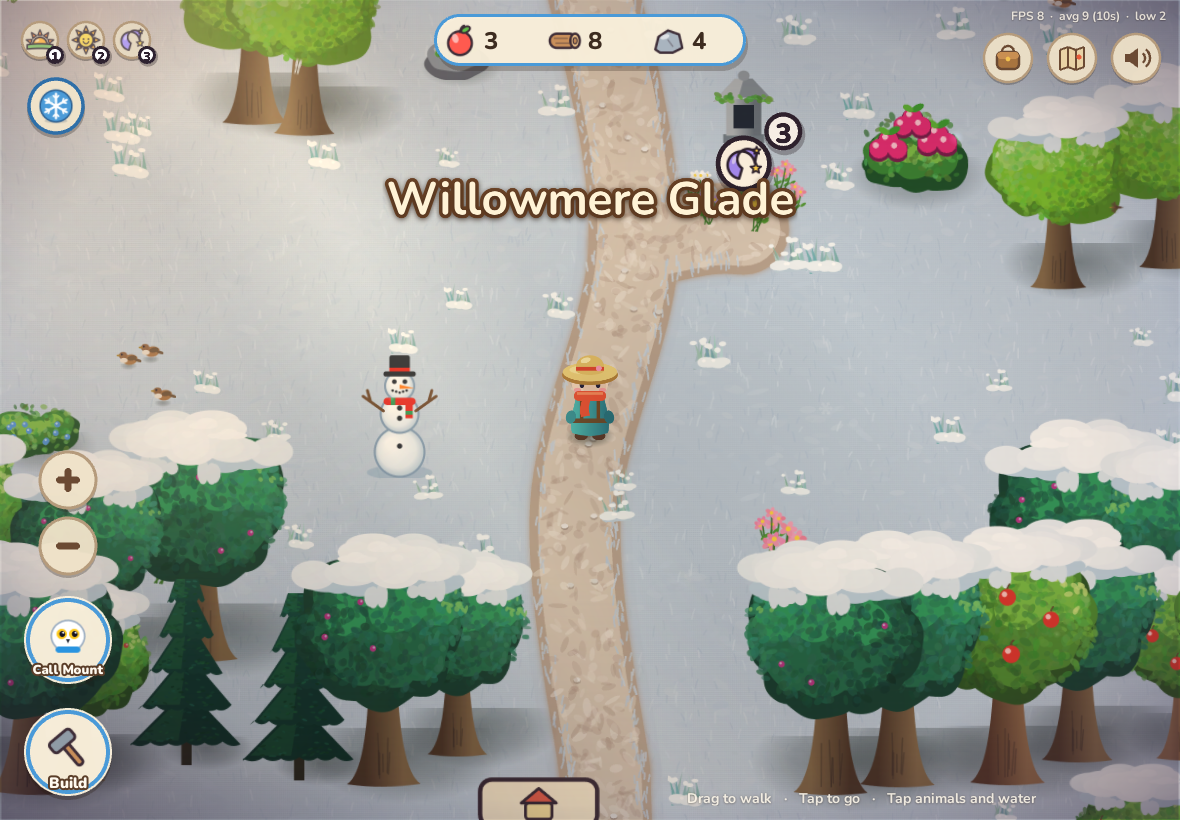
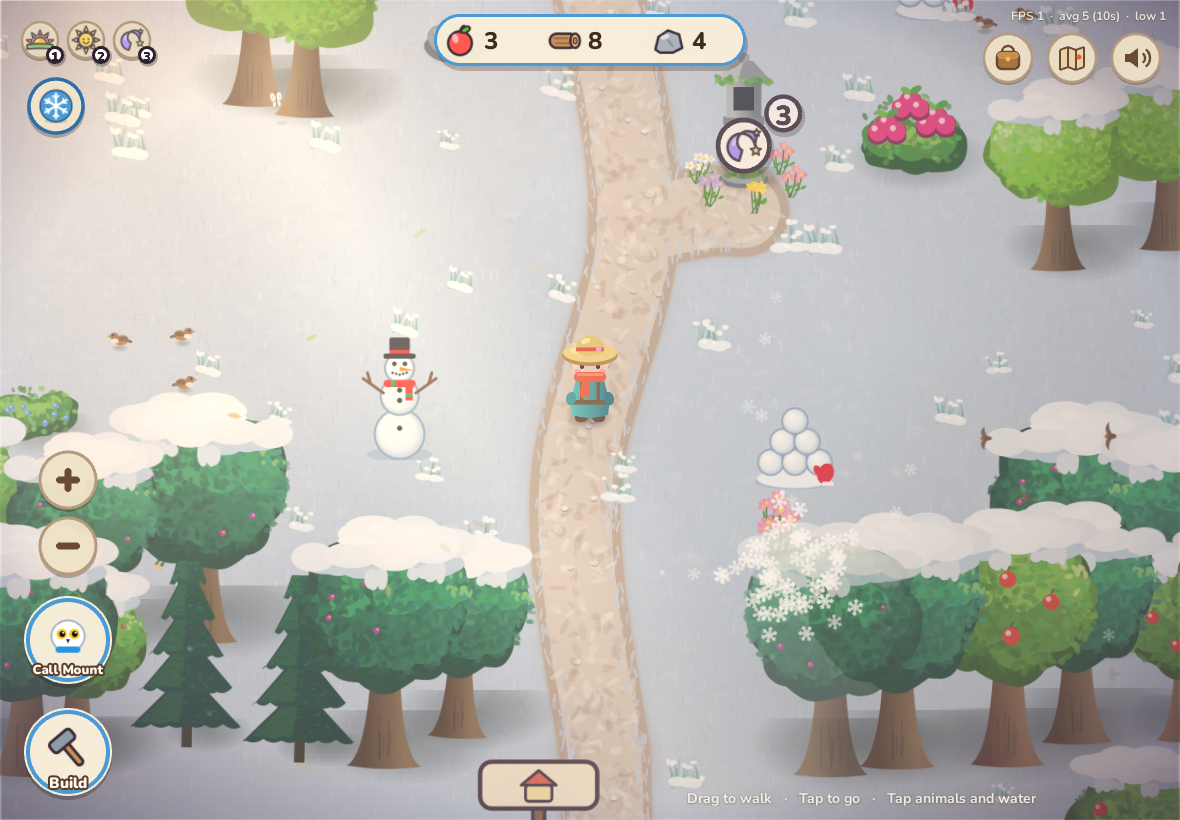
11.5 Winter slice 2a: snowball piles to tap (poof + squash + plop back); What's new snow2

diff --git a/src/themeDress.ts b/src/themeDress.ts
@@ -35,7 +35,7 @@ export class ThemeDresser {
   peeks: Peek[] = [];
   orchardBats: { img: Phaser.GameObjects.Image; ph: number }[] = [];
   wisps: Phaser.GameObjects.Particles.ParticleEmitter | null = null;
-  taps = { jack: 0, pumpkin: 0, bats: 0, peek: 0, candy: 0, leaves: 0, hay: 0, presents: 0, snowman: 0, lights: 0, sunflower: 0, ball: 0 };
+  taps = { jack: 0, pumpkin: 0, bats: 0, peek: 0, candy: 0, leaves: 0, hay: 0, presents: 0, snowman: 0, lights: 0, sunflower: 0, ball: 0, snowball: 0 };
   /** Christmas: presents, snowmen and lit trees to tap (made once, shown only in Christmas). */
   xmasProps: Phaser.GameObjects.Image[] = [];
   presents: Phaser.GameObjects.Image[] = [];
@@ -46,6 +46,9 @@ export class ThemeDresser {
   summerProps: Phaser.GameObjects.Image[] = [];
   sunflowers: Phaser.GameObjects.Image[] = [];
   balls: Phaser.GameObjects.Image[] = [];
+  /** 11.5 Winter: snowball piles that go poof and roll back together when tapped (Winter only). */
+  snowballs: Phaser.GameObjects.Image[] = [];
+  winterBuilt = false;
   summerBuilt = false;
   /** Fall: leaf piles + hay bales (made once, shown only in Fall). */
   fallProps: Phaser.GameObjects.Image[] = [];
@@ -202,6 +205,39 @@ export class ThemeDresser {
     ball(POND.x + 190, POND.y - 150);
     ball(PIER.x - 90, PIER.y0 - 30);
     ball(VILLAGE_SIGN.x - 40, VILLAGE_SIGN.y + 120);
+  }
+
+  /** 11.5 Winter props: snowball piles by home, the pond, the cottage and the village. A tap throws a
+   *  puff of snow, squashes the pile flat, and it plops back up a moment later. */
+  private buildWinterProps() {
+    if (this.winterBuilt) return;
+    this.winterBuilt = true;
+    const w = this.w;
+    const free = (x: number, y: number) => !waterAt(x, y, 12) && !w.nav.isBlocked(...w.nav.cellOf(x, y));
+    const pile = (x: number, y: number) => {
+      if (!free(x, y)) return;
+      const k0 = 1.1 / (frameScale['wi_snowballs'] ?? 2.5);
+      const img = w.add.image(x, y, atlasOf('wi_snowballs'), 'wi_snowballs').setOrigin(0.5, 1).setScale(k0).setDepth(y);
+      this.snowballs.push(img);
+      w.tappables.push({
+        x: () => img.x, y: () => img.y - 22, r: 36, enabled: () => img.visible,
+        tap: () => {
+          this.taps.snowball++; w.life.reactions++;
+          sfx.thump();
+          w.floatText(img.x, img.y - 70, ['Poof!', 'Snowball!', 'Splat!', 'Brrr!'][Math.floor(Math.random() * 4)], '#e6f4ff');
+          w.burst(img.x, img.y - 24, 0xffffff, 14, 'p_snow');
+          w.tweens.killTweensOf(img);
+          img.setScale(k0);
+          w.tweens.add({ targets: img, scaleY: k0 * 0.35, scaleX: k0 * 1.25, duration: 140, ease: 'Quad.easeOut',
+            onComplete: () => { w.tweens.add({ targets: img, scaleY: k0, scaleX: k0, delay: 700, duration: 420, ease: 'Back.easeOut' }); } });
+        },
+      });
+    };
+    pile(PLAYER_START.x + 140, PLAYER_START.y + 50);
+    pile(POND.x - 170, POND.y + 190);
+    pile(COTTAGE.x - 140, COTTAGE.y + 70);
+    pile(VILLAGE_SIGN.x + 110, VILLAGE_SIGN.y + 60);
+    pile(WINDMILL.x - 90, WINDMILL.y + 60);
   }
 
   /** Fall props: crunchy leaf piles along the paths and under trees, hay bales (with pumpkins) at cozy spots. */
@@ -502,6 +538,8 @@ export class ThemeDresser {
     for (const p of this.xmasProps) p.setVisible(xp);
     // Winter keeps the snowmen (no presents or Christmas lights).
     for (const p of this.snowmen) p.setVisible(xp || wp);
+    if (wp) this.buildWinterProps();
+    for (const p of this.snowballs) p.setVisible(wp);
     // Grass tufts: Fall dries the meadow grass to gold; Christmas swaps in frosty tufts poking out
     // of little snow drifts (same size and base point, so nothing shifts).
     if (!this.tufts) this.tufts = (w.children.list as Phaser.GameObjects.Image[]).filter((o) => o.type === 'Image' && /^tuft\d$/.test(o.frame?.name ?? ''));

diff --git a/src/mount/xmasArt.ts b/src/mount/xmasArt.ts
@@ -258,11 +258,32 @@ function paintBeachBall(c: Ctx, w: number, h: number) {
   c.strokeStyle = hsl(220, 30, 30, 0.7); c.lineWidth = 1.4; c.beginPath(); c.arc(cx, cy, r, 0, Math.PI * 2); c.stroke();
 }
 
+/** 11.5 Winter: a little pyramid of snowballs on a drift, with a red mitten left beside it. */
+function paintSnowballs(c: Ctx, w: number, h: number) {
+  dab(c, w / 2, h - 5, w * 0.44, 5, 0, hsl(210, 30, 60, 0.35));
+  c.fillStyle = hsl(205, 40, 96); c.beginPath(); c.ellipse(w / 2, h - 7, w * 0.42, 6, 0, 0, Math.PI * 2); c.fill();
+  const ball = (x: number, y: number, r: number) => {
+    const g = c.createRadialGradient(x - r * 0.35, y - r * 0.4, r * 0.1, x, y, r);
+    g.addColorStop(0, hsl(0, 0, 100)); g.addColorStop(0.7, hsl(205, 35, 93)); g.addColorStop(1, hsl(210, 35, 78));
+    c.fillStyle = g; c.beginPath(); c.arc(x, y, r, 0, Math.PI * 2); c.fill();
+    c.strokeStyle = hsl(215, 30, 60, 0.7); c.lineWidth = 1.2; c.stroke();
+  };
+  const r = 8;
+  ball(w / 2 - 2 * r + 1, h - 9 - r, r); ball(w / 2, h - 9 - r, r); ball(w / 2 + 2 * r - 1, h - 9 - r, r);
+  ball(w / 2 - r + 0.5, h - 9 - 2.6 * r, r); ball(w / 2 + r - 0.5, h - 9 - 2.6 * r, r);
+  ball(w / 2, h - 9 - 4.2 * r, r);
+  // Mitten.
+  c.fillStyle = hsl(355, 75, 50); c.beginPath(); c.ellipse(w - 9, h - 10, 5, 6.5, 0.4, 0, Math.PI * 2); c.fill();
+  c.beginPath(); c.ellipse(w - 14, h - 12, 2.2, 3.4, -0.5, 0, Math.PI * 2); c.fill();
+  c.fillStyle = hsl(0, 0, 98); c.fillRect(w - 11, h - 5, 7, 2.5);
+}
+
 export function paintChristmasArt(scene: Phaser.Scene) {
   canvasTex(scene, 'i_winter', 48, 48, (c) => paintWinterIcon(c, 48), 2);
   canvasTex(scene, 'i_summer', 48, 48, (c) => paintSummerIcon(c, 48), 2);
   canvasTex(scene, 'su_sunflower', 40, 96, (c) => paintSunflower(c, 40, 96));
   canvasTex(scene, 'su_ball', 40, 40, (c) => paintBeachBall(c, 40, 40));
+  canvasTex(scene, 'wi_snowballs', 56, 56, (c) => paintSnowballs(c, 56, 56));
   ([['xm_present0', 2, 46], ['xm_present1', 142, 2], ['xm_present2', 212, 46], ['xm_present3', 46, 2]] as [string, number, number][])
     .forEach(([k, hue, rib]) => canvasTex(scene, k, 44, 44, (c) => paintPresent(c, 44, 44, hue, rib)));
   canvasTex(scene, 'xm_snowman', 56, 90, (c) => paintSnowman(c, 56, 90));

diff --git a/tests/winter.spec.ts b/tests/winter.spec.ts
@@ -38,6 +38,25 @@ test('winter: snowy look, snowmen only, own soundscape, picker', async ({ page }
     expect(c.litTrees.length).toBe(0);
     expect(c.bulbs).toBe(0);
 
+    // 11.5: snowball piles to tap (Winter only).
+    let wi = await cozy(page, 'winter()');
+    expect(wi.snowballs.length).toBeGreaterThanOrEqual(3);
+    {
+      const tp = (x: number, y: number) => page.evaluate(([x, y]) => (window as any).__cozy.teleport(x, y), [x, y]);
+      const [sx, sy] = wi.snowballs[0];
+      await tp(sx, sy + 110); await page.waitForTimeout(1500);
+      const s = await cozy(page, `worldToScreen(${sx}, ${sy})`);
+      await page.touchscreen.tap(Math.round(s.x), Math.round(s.y));
+      await expect.poll(async () => (await cozy(page, 'winter()')).taps.snowball, { timeout: 10_000, intervals: [200] }).toBeGreaterThanOrEqual(1);
+      await page.waitForTimeout(250);
+      await page.screenshot({ path: `${SHOTS}/winter-snowballs.png` });
+      await cozy(page, "setTheme('christmas')"); await page.waitForTimeout(800);
+      expect((await cozy(page, 'winter()')).snowballs.length).toBe(0);
+      await cozy(page, "setTheme('winter')"); await page.waitForTimeout(800);
+      wi = await cozy(page, 'winter()');
+      expect(wi.snowballs.length).toBeGreaterThanOrEqual(3);
+    }
+
     await page.evaluate(() => (window as any).__cozy.teleport(905, 1330));
     await page.waitForTimeout(5000);
     await page.screenshot({ path: `${SHOTS}/winter.png` });

diff --git a/src/whatsnew.ts b/src/whatsnew.ts
@@ -3,13 +3,13 @@
 // Keep each bullet short and simple: kids read these.
 // icon: 'wood' | 'fruit' | 'berry' | 'star' | 'heart' (a little picture beside the line).
 
-export const VERSION = '2026-10-23-mounts1';
+export const VERSION = '2026-10-23-snow2';
 
 export type WhatsNewItem = { icon: 'wood' | 'fruit' | 'berry' | 'star' | 'heart'; text: string };
 
 export const ITEMS: WhatsNewItem[] = [
   { icon: 'heart', text: 'A new Summer theme! Tap the sun to make the glade bright and sunny. Tap the sunflowers to dance, bounce a beach ball, and ride the pink Flamingo!' },
-  { icon: 'star', text: 'A new Winter theme! Tap the snowflake to make the whole glade snowy and quiet. Say hi to the snowmen and ride the fluffy Snowy Owl!' },
+  { icon: 'star', text: 'A new Winter theme! Tap the snowflake to make the whole glade snowy and quiet. Tap the snowball piles to go poof, say hi to the snowmen and ride the fluffy Snowy Owl!' },
   { icon: 'berry', text: 'Go inside the Garden shed and the Fishing Hut! Water the flower pots and pick the blooms, or tap the fishing hole to cast your line and catch a fish.' },
   { icon: 'wood', text: 'Build toys in the Workshop! Tap your Workshop, then Go inside! Tap the workbench, pick a toy boat, birdhouse, frog or horsey, then tap tap tap to hammer it. Uses your wood and stone.' },
 ];

diff --git a/src/scenes/World.ts b/src/scenes/World.ts
@@ -1569,6 +1569,10 @@ export class WorldScene extends Phaser.Scene {
         return { sunflowers: d.sunflowers.filter((p) => p.visible).map((p) => [r(p.x), r(p.y - 30 * (p.scaleY * 2.5))]),
           balls: d.balls.filter((p) => p.visible).map((p) => [r(p.x), r(p.y - 16)]), taps: { sunflower: d.taps.sunflower, ball: d.taps.ball } };
       },
+      winter() {
+        const d = self.dresser, r = Math.round;
+        return { snowballs: d.snowballs.filter((p) => p.visible).map((p) => [r(p.x), r(p.y - 22)]), taps: { snowball: d.taps.snowball } };
+      },
       villageEvent: (e: 'merchant' | 'rain' | 'festival') => self.village.start(e),
       mount: () => self.mount.snapshot(),
       callMount: (id?: string) => self.mount.call(id),
